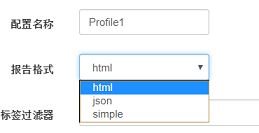
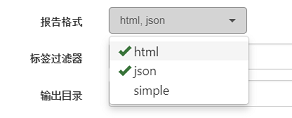
Add online version build info

diff --git a/gulpfile.js b/gulpfile.js
@@ -19,7 +19,8 @@ gulp.task('build-book', function(cb) {
 gulp.task('clean-up', function() {
     return del([
         `./node_api/**/*`,
-        './model_mgr/**/*'
+        './model_mgr/**/*',
+        './shared/**/*'
       ]);
 });
 
@@ -31,8 +32,23 @@ gulp.task('remove-md-from-book', function() {
         './_book/package.json',
         './_book/package-lock.json',
         './_book/cover.jpg',
-        './_book/cover_bdd.jpg'
+        './_book/cover_bdd.jpg',
+        './_book/book-offline.json',
+        './_book/book-online.json',
+        './_book/preview.js'
       ]);
+})
+
+gulp.task('prepare-book-offline', function() {
+    gulp.src([`./book-offline.json`])
+    .pipe(rename('book.json'))
+    .pipe(gulp.dest('./'));
+})
+
+gulp.task('prepare-book-online', function() {
+    gulp.src([`./book-online.json`])
+    .pipe(rename('book.json'))
+    .pipe(gulp.dest('./'));
 })
 
 gulp.task('copy-leanrunner', function() {
@@ -54,4 +70,5 @@ gulp.task('merge-toc', function() {
 
 gulp.task('prepare', gulpSequence('clean-up', 'copy-leanrunner', 'merge-toc'));
 
-gulp.task('build', gulpSequence('prepare', 'build-book', 'remove-md-from-book'))
+gulp.task('build', gulpSequence('prepare', 'prepare-book-offline', 'build-book', 'remove-md-from-book'));
+gulp.task('build-online', gulpSequence('prepare', 'prepare-book-online', 'build-book', 'remove-md-from-book'));

diff --git a/summary.md b/summary.md
@@ -1,11 +1,10 @@
 # 目录
 
-* [行为驱动测试简介](/bdd/index.md)
+* [CukeTest 概述](/bdd/index.md)
     * [关于本书](/readme-origin.md)
     * [为什么要行为驱动测试](/bdd/why_bdd.md)
     * [Cucumber.js如何工作](/bdd/how_cucumber_works.md)
-* [CukeTest 概述](/overview.md)
-    * [CukeTest 概述](/overview.md)
+    * [CukeTest 简介](/overview.md)
     * [CukeTest 演示脚本](/misc/demos.md)
 
 * [剧本文件编辑](/features/index.md)
@@ -50,8 +49,13 @@
     * [描述模式](/node_api/descriptive_mode.md)
     * [图像字符识别(OCR)](/node_api/ocr.md)
     * [图像操作API](/node_api/image.md)
-    * [Util(常用工具函数）](/node_api/util.md)
+    * [Util(常用工具函数)](/node_api/util.md)
+    * [互操作API库](/shared/orchestrate.md)
+        * [数据库访问](/shared/database.md)
+        * [Excel的读取](/shared/excel.md)
+    * [离线环境安装npm包](/shared/npm_offline.md)
     * [QT自动化常见问题](/shared/qt_faq.md)
+        * [Qt中Table的自动化](/shared/qt/qt_table.md)
     * [Windows应用自动化常见问题](/shared/win_faq.md)
 
 

diff --git a/overview.md b/overview.md
@@ -1,4 +1,4 @@
-# CukeTest概述
+# CukeTest简介
 
 CukeTest是开发测试自动化脚本的一个灵巧方便的工具。用户可以使用此工具快速创建BDD（行为驱动开发, Behavior Driven Development）测试脚本。它集成了[Cucumber](/cucumber/concepts.md#cucumber)框架和JavaScript，可视化编辑，调试功能，并有多个html报告模板可供选择。同时它能够实现了各种类型应用的自动化，包括Web、Windows、移动设备、API等等。
 

diff --git a/summary-origin.md b/summary-origin.md
@@ -1,11 +1,10 @@
 # 目录
 
-* [行为驱动测试简介](/bdd/index.md)
+* [CukeTest 概述](/bdd/index.md)
     * [关于本书](/readme-origin.md)
     * [为什么要行为驱动测试](/bdd/why_bdd.md)
     * [Cucumber.js如何工作](/bdd/how_cucumber_works.md)
-* [CukeTest 概述](/overview.md)
-    * [CukeTest 概述](/overview.md)
+    * [CukeTest 简介](/overview.md)
     * [CukeTest 演示脚本](/misc/demos.md)
 
 * [剧本文件编辑](/features/index.md)

diff --git a/execution/profiles.md b/execution/profiles.md
@@ -35,6 +35,8 @@
 
 `"simple"`格式的报告将仍然保存为html文件。 `"simple"`报告的内容与使用缺省参数从命令行运行Cucumber.js具有相同的内容和着色。
 
+>注意：你可以选择输出多种格式的报表例如html+json，或simple+json，但是不能选择html+simple，因为simple也是一种html格式的报表。
+
 ## "快速失败" (Fast-Fail)
 
 这个开关打开时，会在第一个异常发生时停止运行。

diff --git a/bdd/index.md b/bdd/index.md
@@ -1,4 +1,7 @@
-# 行为驱动开发
+# CukeTest 概述
 
+* [关于本书](/readme-origin.md)
 * [为什么要行为驱动开发](/bdd/why_bdd.md)
 * [Cucumber如何工作](/bdd/how_cucumber_works.md)
+* [CukeTest 简介](/overview.md)
+* [CukeTest 演示脚本](/misc/demos.md)
